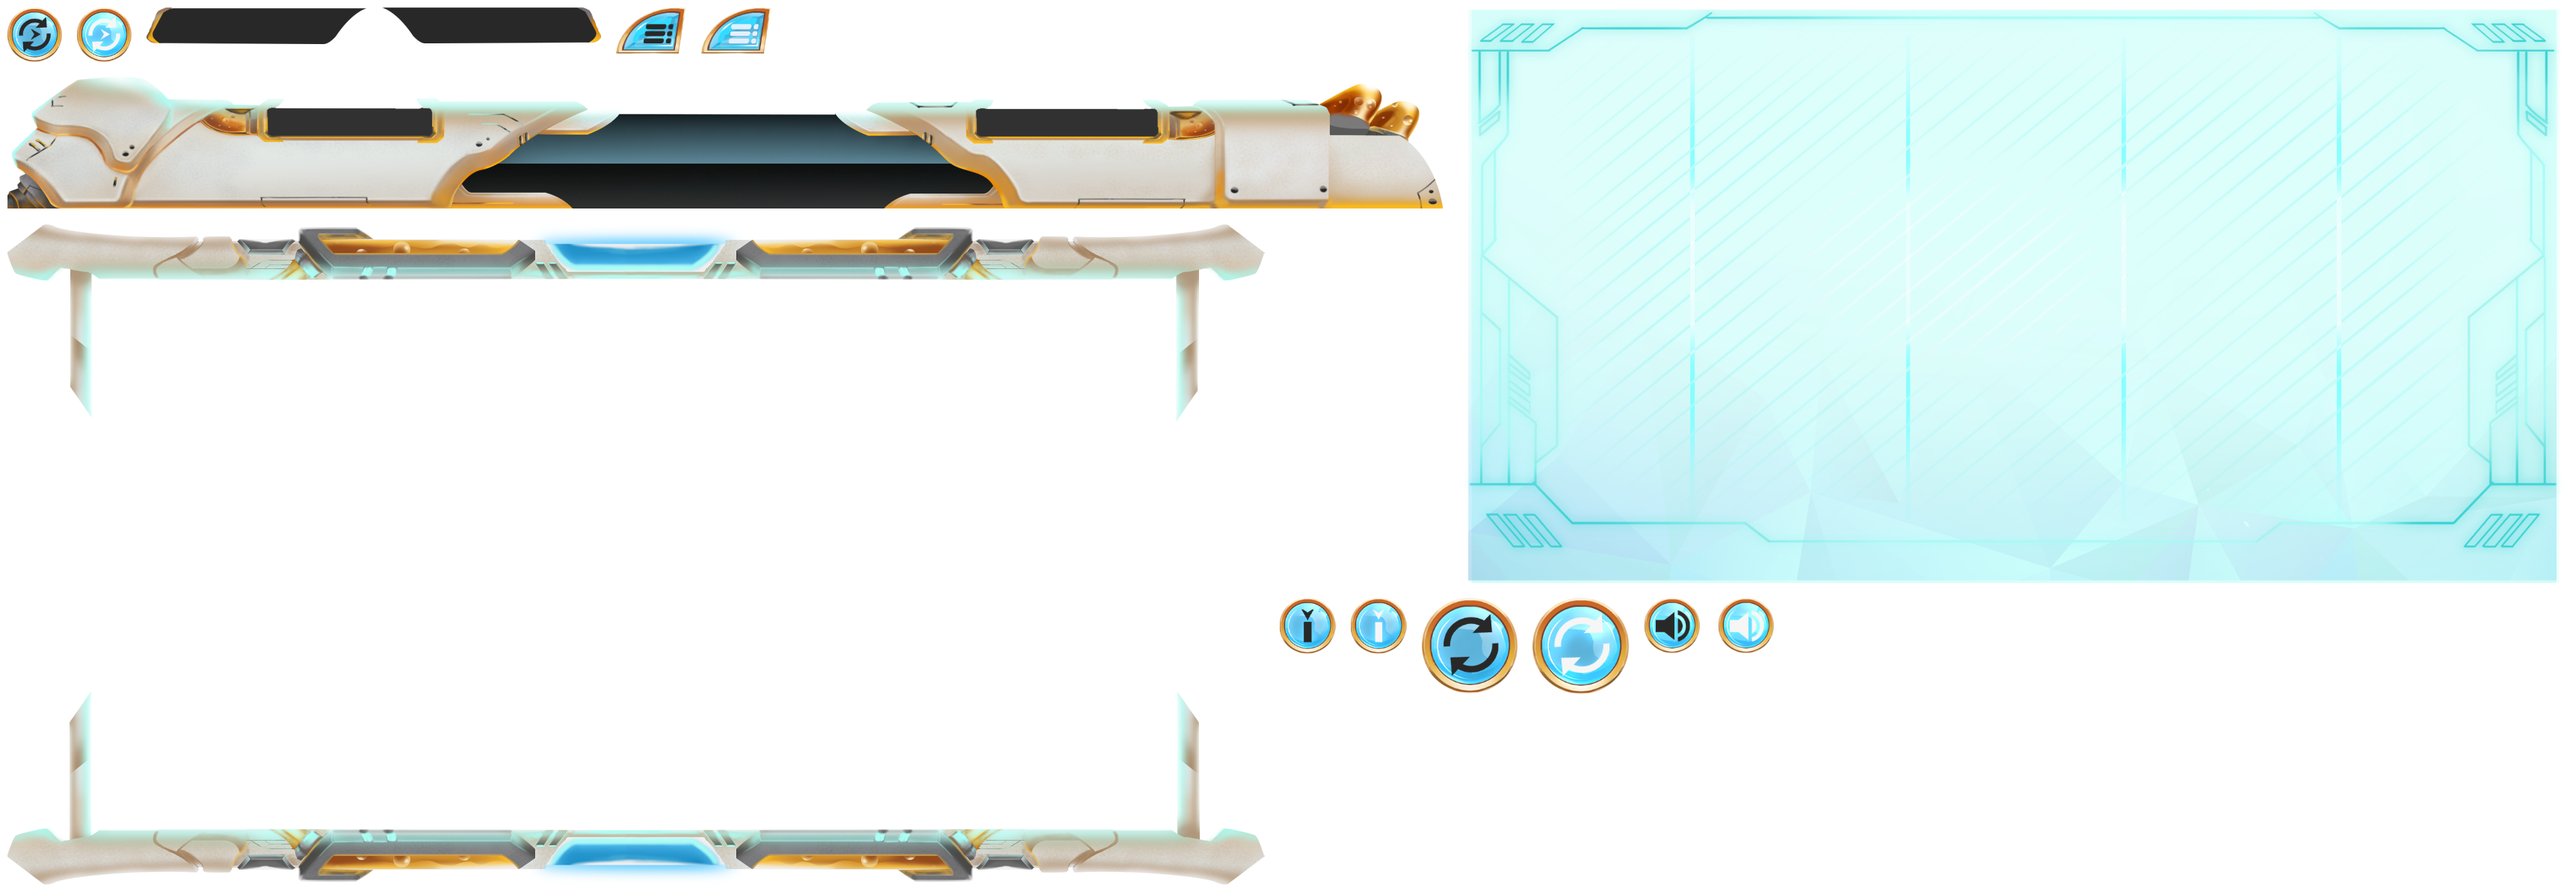
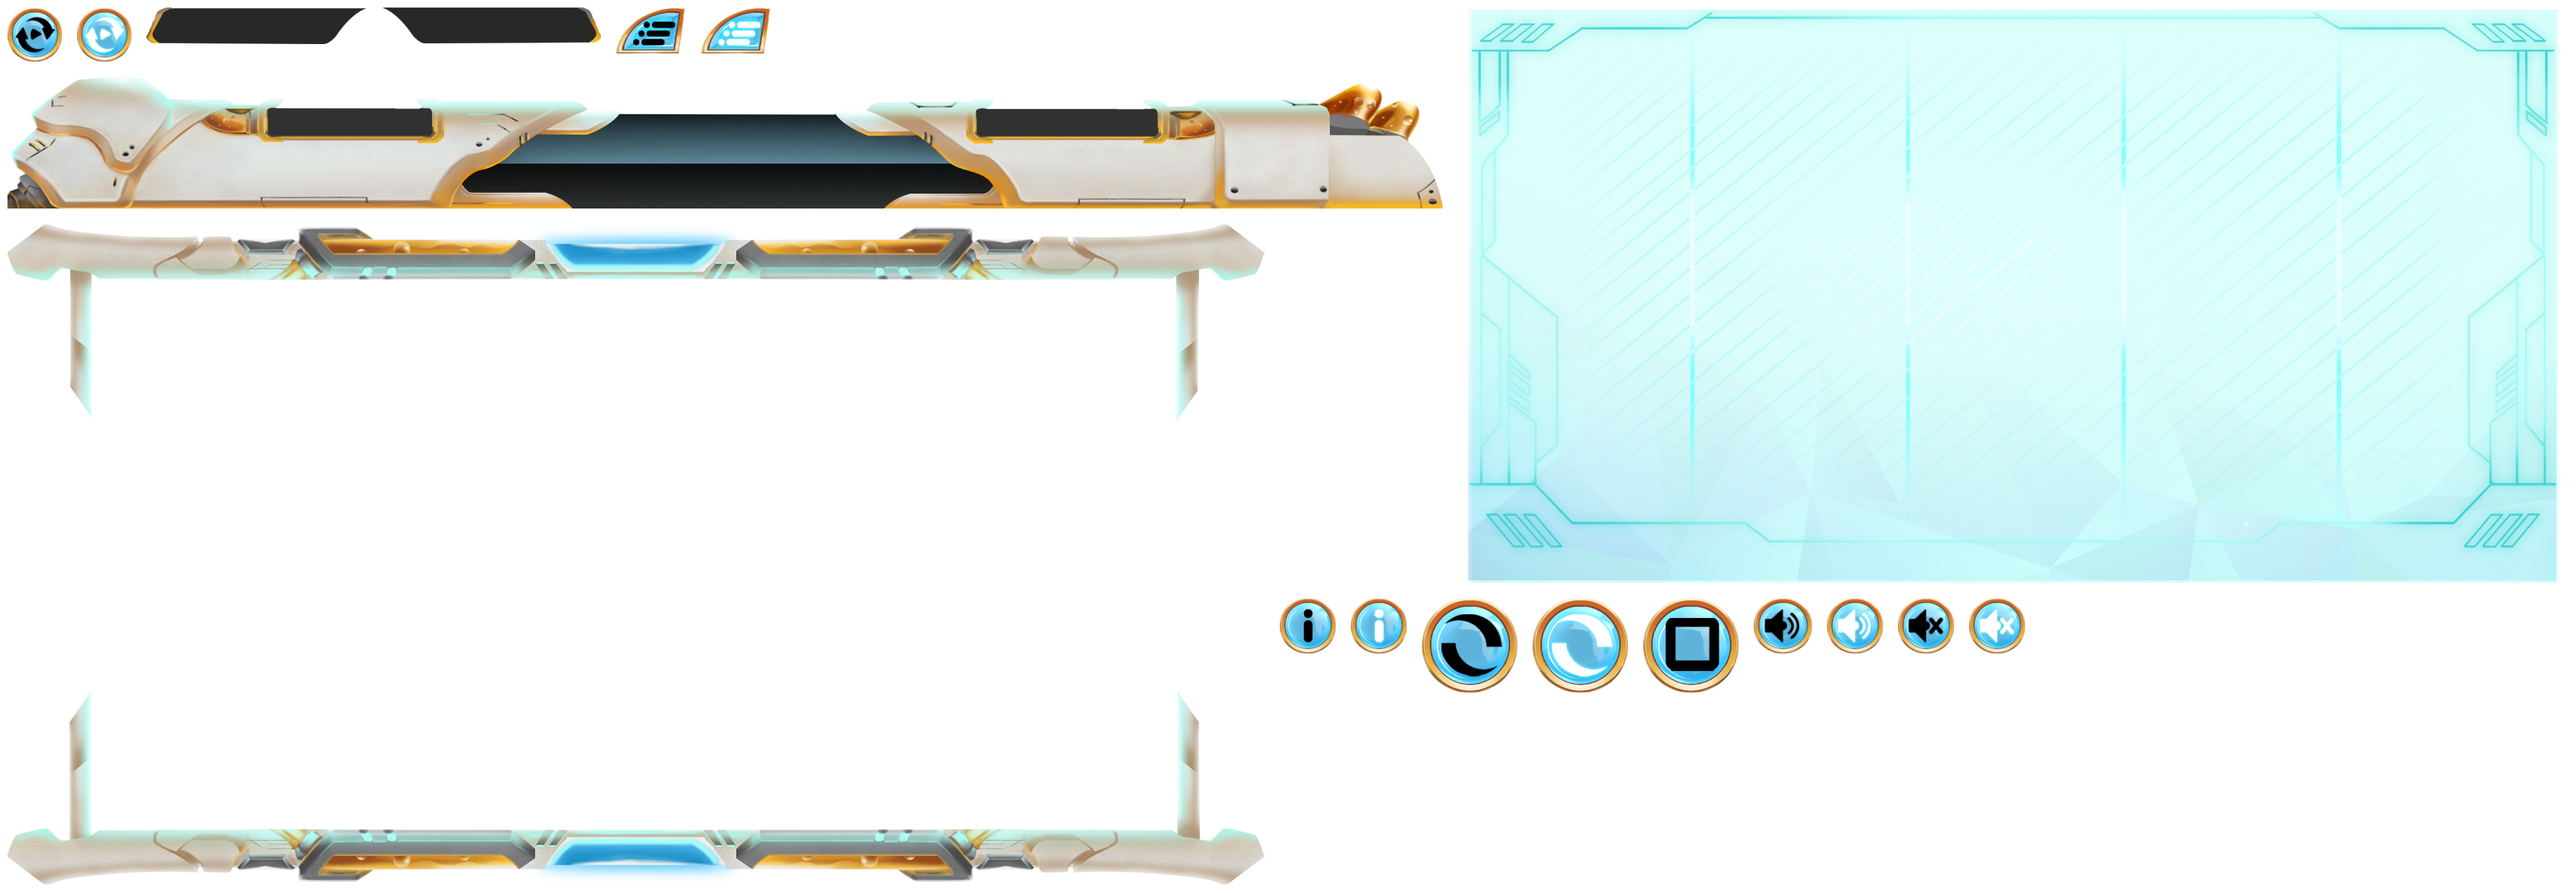
updated controlls

Changed region(s): [[0.4968, 0.6502, 0.8073, 0.7741], [0.0, 0.0, 0.0621, 0.0619], [0.2484, 0.031, 0.3105, 0.0619]]

diff --git a/src/core/Game.ts b/src/core/Game.ts
@@ -48,11 +48,11 @@ export default class Game{
         this.baseHeight = this.app.screen.height
         this.textureArray = res
 
-                //buttons Hover
+        //buttons Hover
         this.autoplayHover = Functions.loadTexture(this.textureArray,'slot_frame_controller','autoplay_hover').texture
         this.infoHover = Functions.loadTexture(this.textureArray,'slot_frame_controller','info_hover').texture
         this.soundOnHover = Functions.loadTexture(this.textureArray,'slot_frame_controller','volume_hover').texture
-       // this.soundOffHover = Functions.loadTexture(this.textureArray,'slot_frame_controller','sound_off_button_hover').texture
+        this.soundOffHover = Functions.loadTexture(this.textureArray,'slot_frame_controller','volume_off_hover').texture
         this.spinHover = Functions.loadTexture(this.textureArray,'slot_frame_controller','spin_hover').texture
         this.settingsHover = Functions.loadTexture(this.textureArray,'slot_frame_controller','settings_hover').texture
 
@@ -64,6 +64,7 @@ export default class Game{
 
         window.document.addEventListener('keydown', (e)=> {
             if(!this.slotGame.isSpinning){
+                this.controller.spinBtnSprite.texture = Functions.loadTexture(this.textureArray,'slot_frame_controller','spin_stop').texture
                 if(this.slotGame.notLongPress === true) {
                     this.slotGame.notLongPress = false;
                     this.startSpin('normal')
@@ -79,6 +80,7 @@ export default class Game{
 
         window.document.addEventListener('touchstart', (e)=> {
             if(!this.slotGame.isSpinning){
+                
                 if(this.slotGame.notLongPress === true) {
                     //this.slotGame.notLongPress = false;
                     this.startSpin('normal')
@@ -106,7 +108,7 @@ export default class Game{
     }
 
     private createSlot(){
-        this.slotGame = new Slot(this.app,this.textureArray)
+        this.slotGame = new Slot(this.app,this.textureArray,this.onSpinEnd.bind(this))
         this.gameContainer.addChild(this.slotGame.container)
         this.slotGame.container.y = +80
     }
@@ -147,17 +149,25 @@ export default class Game{
 
 
         this.controller.spinBtnSprite.addEventListener('mouseenter',()=>{
-            this.controller.spinBtnSprite.texture = this.spinHover
+            if(!this.slotGame.isSpinning){
+                this.controller.spinBtnSprite.texture = this.spinHover
+            }
+           
         })
         this.controller.spinBtnSprite.addEventListener('mouseleave',()=>{
-            this.controller.spinBtnSprite.texture = Functions.loadTexture(this.textureArray,'slot_frame_controller','spin').texture
+            if(!this.slotGame.isSpinning){
+                this.controller.spinBtnSprite.texture = Functions.loadTexture(this.textureArray,'slot_frame_controller','spin').texture
+            }
+           
         })
         this.controller.spinBtnSprite.addEventListener('pointerdown',()=>{
             if(!this.slotGame.isSpinning){
+                this.controller.spinBtnSprite.texture = Functions.loadTexture(this.textureArray,'slot_frame_controller','spin_stop').texture
                 if(this.slotGame.notLongPress === true) {
                     //this.slotGame.notLongPress = false;
                     this.startSpin('normal')
                     this.slotGame.timeScale = 0
+
                 }else{
                     this.startSpin('normal')
                     this.slotGame.timeScale = 10
@@ -168,18 +178,33 @@ export default class Game{
         })
 
         this.controller.soundBtnSprite.addEventListener('mouseenter',()=>{
+           if(this.controller.soundBtnSprite.texture == Functions.loadTexture(this.textureArray,'slot_frame_controller','volume').texture ||  this.controller.soundBtnSprite.texture == this.soundOnHover ){
             this.controller.soundBtnSprite.texture = this.soundOnHover
+            }else{
+                this.controller.soundBtnSprite.texture = this.soundOffHover
+            }
           
         })
         this.controller.soundBtnSprite.addEventListener('mouseleave',()=>{
-            this.controller.soundBtnSprite.texture = Functions.loadTexture(this.textureArray,'slot_frame_controller','volume').texture
-           
+           // this.controller.soundBtnSprite.texture = Functions.loadTexture(this.textureArray,'slot_frame_controller','volume').texture 
+           if(this.controller.soundBtnSprite.texture == Functions.loadTexture(this.textureArray,'slot_frame_controller','volume').texture ||  this.controller.soundBtnSprite.texture == this.soundOnHover ){
+            this.controller.soundBtnSprite.texture = Functions.loadTexture(this.textureArray,'slot_frame_controller','volume').texture 
+            }else{
+                this.controller.soundBtnSprite.texture = Functions.loadTexture(this.textureArray,'slot_frame_controller','volume_off').texture 
+            } 
         })
-
-
-
-
-
+        this.controller.soundBtnSprite.addEventListener('pointerdown',()=>{
+            if(this.controller.soundBtnSprite.texture == Functions.loadTexture(this.textureArray,'slot_frame_controller','volume').texture ||  this.controller.soundBtnSprite.texture == this.soundOnHover ){
+                this.controller.soundBtnSprite.texture = Functions.loadTexture(this.textureArray,'slot_frame_controller','volume_off').texture
+            }else{
+                this.controller.soundBtnSprite.texture = Functions.loadTexture(this.textureArray,'slot_frame_controller','volume').texture
+            }
+           // this.controller.soundBtnSprite.texture = this.soundOnHover
+          
+        })
+    }
+    private onSpinEnd(){
+        this.controller.spinBtnSprite.texture = Functions.loadTexture(this.textureArray,'slot_frame_controller','spin').texture
     }
 
 }

diff --git a/src/core/Slot.ts b/src/core/Slot.ts
@@ -64,6 +64,9 @@ export default class Slot{
     private animateDone:boolean = true;
     public freeSpinStart:boolean = false 
 
+    //methods
+    private onSpinEnd:()=>void
+
     private reelsValues:Array<Array<number>> = [
         // [3,4,3,11,10,1,2,4,11,8,4,11,2,9,3,10,1,4,5,9,2,6,8,6,9,3,9,7,1,7],
         // [2,8,3,11,10,7,3,11,9,1,4,2,3,4,4,7,5,10,5,9,2,6,8,6,9,3,9,11,1,7],
@@ -77,13 +80,15 @@ export default class Slot{
         [11,5,9,2,4,6,11,10,1,11,10,1]
     ]
 
-    constructor(app:PIXI.Application,textureArray:any){
+    constructor(app:PIXI.Application,textureArray:any,onSpinEnd:()=>void){
         this.app = app
         this.baseWidth = this.app.screen.width
         this.baseHeight = this.app.screen.height
         this.textureArray = textureArray
         this.container = new PIXI.Container
         this.reelsContainer = new PIXI.Container
+
+        this.onSpinEnd = onSpinEnd
 
         this.init()
     }
@@ -289,7 +294,7 @@ export default class Slot{
                                          }
                                          this.autoPlayCount--
                                         // set the credit base 
-                                        // this.onSpinEnd()
+                                         this.onSpinEnd()
                                         //console.log(this.autoPlayCount, " z")
                                         //  if(this.autoPlayCount == 0 && !this.autoplayDoneEvent) {
                                         //      this.createCongrats()
